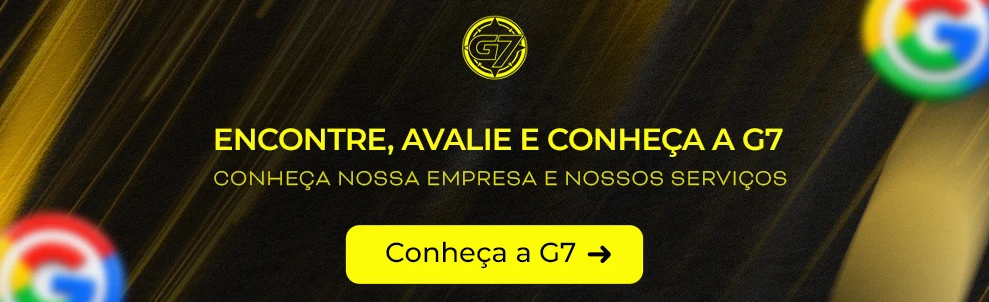
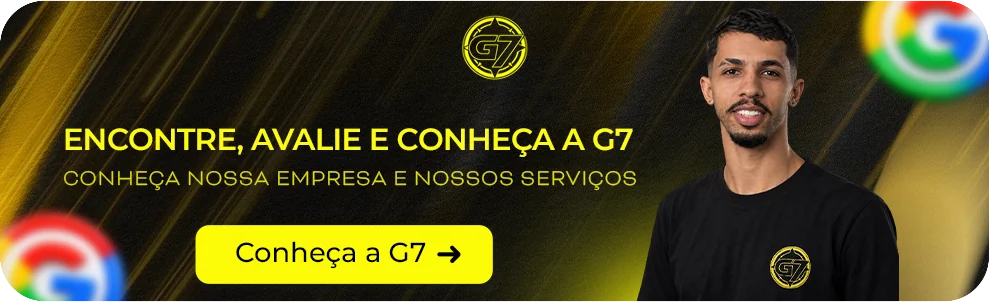
feat: novos cards do Google e do Pinterest
- Substitui as artes dos cards do Google e do Pinterest
- Versiona as imagens para contornar o cache do CDN

Changed region(s): [[0.0, 0.0, 1.0, 1.0]]

diff --git a/index.html b/index.html
@@ -224,12 +224,12 @@
       </li>
       <li style="--i:2">
         <a class="card" target="_blank" rel="noopener" href="https://share.google/MvKb5lZwsGCkT3vbx">
-          <img src="img/google.webp" width="989" height="302" alt="Encontre, avalie e conheça a G7 no Google">
+          <img src="img/google.webp?v=2" width="989" height="302" alt="Encontre, avalie e conheça a G7 no Google">
         </a>
       </li>
       <li style="--i:3">
         <a class="card" target="_blank" rel="noopener" href="https://br.pinterest.com/gravacaolaser96/">
-          <img src="img/pinterest.webp" width="989" height="302" alt="Inspire-se no Pinterest da G7">
+          <img src="img/pinterest.webp?v=2" width="989" height="302" alt="Inspire-se no Pinterest da G7">
         </a>
       </li>
     </ul>
